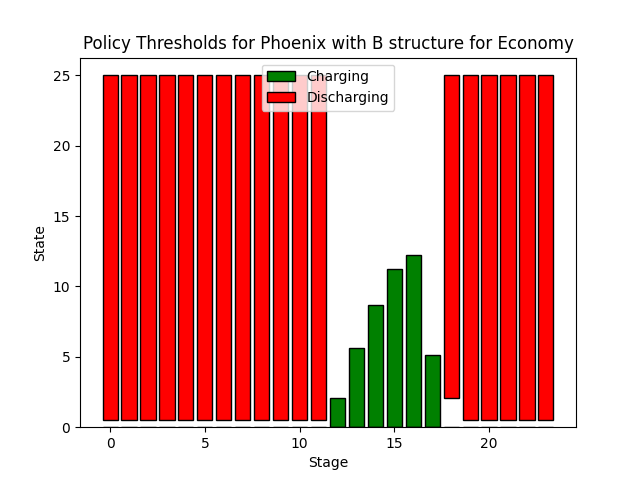
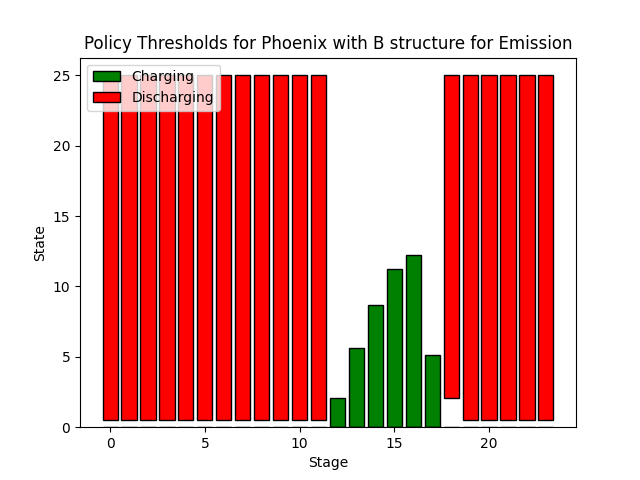
fixed title mistake in plots

Changed region(s): [[0.125, 0.0625, 0.9062, 0.25]]

diff --git a/testpolicyworstcase.py b/testpolicyworstcase.py
@@ -12,12 +12,12 @@ if __name__ == "__main__":
     for i in range(len(cities)):
         city = cities[i]
         params = Parameters(CITY=city, STRUCTURE='B', N_BATT=5, N_SOLAR=20, MAX_STAGE=24)
-        policy = params.pickle_file_name_carbon()
+        policy = params.pickle_file_name()
         with open( policy, 'rb') as f:
             memo = pickle.load(f)
         #policy = extract_policy(memo, params) 
         plot_policy_boxes(memo, params)
-        #plot_policy_states(memo, next_state, params)
-        plt.savefig(f"figures/policy_thresholds/{city}_{params.STRUCTURE}_{params.N_BATT}_{params.N_SOLAR}threshold_carbon.png")
-        #plt.show()
+        plot_policy_states(memo, next_state, params)
+        #plt.savefig(f"figures/policy_thresholds/{city}_{params.STRUCTURE}_{params.N_BATT}_{params.N_SOLAR}threshold_carbon.png")
+        plt.show()
     

diff --git a/plotting.py b/plotting.py
@@ -127,8 +127,8 @@ def plot_policy_boxes(policy, parameters: Parameters):
     ax.bar(n_stages, nheights, width=0.8, align='center', color='red', edgecolor='black', bottom=nmin_states, label='Discharging')
     ax.set_xlabel('Stage')
     ax.set_ylabel('State')
-    ax.set_title('Policy Thresholds for ' + parameters.CITY + ' with ' + parameters.STRUCTURE + ' structure for Economy')
-    ax.legend()
+    ax.set_title('Policy Thresholds for ' + parameters.CITY + ' with ' + parameters.STRUCTURE + ' structure for Emission')
+    ax.legend(loc='upper left')
 
 def plot_tester_states(states):
     plt.figure()
